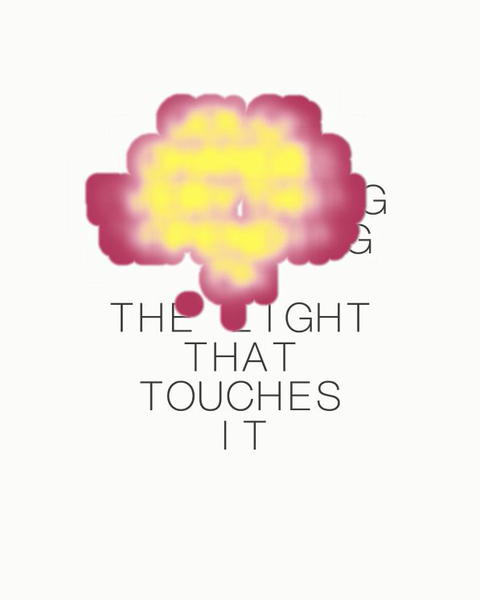
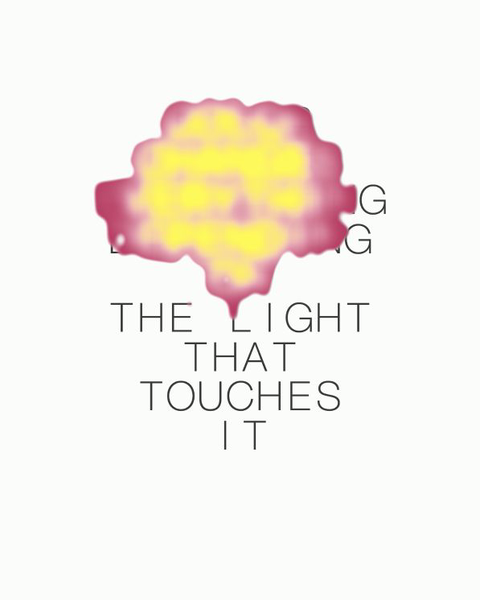
fix: shape light as surface-tension field

Changed region(s): [[0.2812, 0.15, 0.7812, 0.57], [0.1562, 0.24, 0.4062, 0.45], [0.4688, 0.33, 0.5312, 0.36]]

diff --git a/pages/color-changes/script.ts b/pages/color-changes/script.ts
@@ -7,7 +7,8 @@ const TEXTURE_SCALE = 3;
 const FIELD_WIDTH = ART_WIDTH;
 const FIELD_HEIGHT = ART_HEIGHT;
 const COLOR_BLUR_TAPS = 20;
-// Coverage stops inside the local 16 px search radius, so a 16→1 flood is sufficient.
+const SURFACE_BLUR_TAPS = 13;
+// The weighted stroke body stays inside the local search radius before surface smoothing.
 const JFA_JUMPS = [16, 8, 4, 2, 1, 1];
 const searchParams = new URLSearchParams(window.location.search);
 const QA_MODE = searchParams.has('qa');
@@ -27,7 +28,11 @@ const state = {
   radiusYBelow: 180,
   lightFalloff: 0.12,
   seedThreshold: 0.085,
-  bodyRadius: 13.4,
+  bodyRadius: 13.6,
+  bodyRadiusMin: 6.4,
+  surfaceBlurSigma: 5.2,
+  surfaceThreshold: 0.44,
+  surfaceSoftness: 0.085,
   colorBlurSigma: 9.0,
   colorBlurStep: 1.0,
   colorFloor: 0.035,
@@ -160,6 +165,9 @@ const colorHorizontalTarget = new THREE.WebGLRenderTarget(FIELD_WIDTH, FIELD_HEI
 const colorFieldTarget = new THREE.WebGLRenderTarget(FIELD_WIDTH, FIELD_HEIGHT, linearTargetOptions);
 const nearestTargetA = new THREE.WebGLRenderTarget(FIELD_WIDTH, FIELD_HEIGHT, nearestTargetOptions);
 const nearestTargetB = new THREE.WebGLRenderTarget(FIELD_WIDTH, FIELD_HEIGHT, nearestTargetOptions);
+const surfaceSourceTarget = new THREE.WebGLRenderTarget(FIELD_WIDTH, FIELD_HEIGHT, linearTargetOptions);
+const surfaceHorizontalTarget = new THREE.WebGLRenderTarget(FIELD_WIDTH, FIELD_HEIGHT, linearTargetOptions);
+const surfaceFieldTarget = new THREE.WebGLRenderTarget(FIELD_WIDTH, FIELD_HEIGHT, linearTargetOptions);
 
 const sourceMaterial = new THREE.ShaderMaterial({
   vertexShader,
@@ -336,6 +344,79 @@ const jumpFloodMaterial = new THREE.ShaderMaterial({
   depthWrite: false,
 });
 
+const surfaceSourceMaterial = new THREE.ShaderMaterial({
+  vertexShader,
+  fragmentShader: `
+    precision highp float;
+
+    varying vec2 vUv;
+    uniform sampler2D uNearest;
+    uniform vec2 uArtSize;
+    uniform float uBodyRadius;
+    uniform float uBodyRadiusMin;
+    uniform float uSeedThreshold;
+
+    void main() {
+      vec4 nearest = texture2D(uNearest, vUv);
+      if (nearest.a < 0.5) {
+        gl_FragColor = vec4(0.0);
+        return;
+      }
+
+      float strength = smoothstep(uSeedThreshold, 0.72, nearest.z);
+      float localRadius = mix(uBodyRadiusMin, uBodyRadius, pow(strength, 0.72));
+      float distanceToStroke = length((vUv - nearest.xy) * uArtSize);
+      float strokeBody = 1.0 - smoothstep(localRadius - 0.8, localRadius + 0.8, distanceToStroke);
+      strokeBody *= mix(0.62, 1.0, strength);
+      gl_FragColor = vec4(strokeBody, 0.0, 0.0, 1.0);
+    }
+  `,
+  uniforms: {
+    uNearest: { value: nearestTargetA.texture },
+    uArtSize: { value: new THREE.Vector2(ART_WIDTH, ART_HEIGHT) },
+    uBodyRadius: { value: state.bodyRadius },
+    uBodyRadiusMin: { value: state.bodyRadiusMin },
+    uSeedThreshold: { value: state.seedThreshold },
+  },
+  depthTest: false,
+  depthWrite: false,
+});
+
+const surfaceBlurMaterial = new THREE.ShaderMaterial({
+  vertexShader,
+  fragmentShader: `
+    precision highp float;
+
+    varying vec2 vUv;
+    uniform sampler2D uInput;
+    uniform vec2 uDirection;
+    uniform float uSigma;
+
+    void main() {
+      float sigmaSquared = max(uSigma * uSigma, 0.001);
+      float totalWeight = 0.0;
+      float surfaceField = 0.0;
+
+      for (int index = -${SURFACE_BLUR_TAPS}; index <= ${SURFACE_BLUR_TAPS}; index++) {
+        float sampleDistance = float(index);
+        float weight = exp(-0.5 * sampleDistance * sampleDistance / sigmaSquared);
+        surfaceField += texture2D(uInput, vUv + uDirection * sampleDistance).r * weight;
+        totalWeight += weight;
+      }
+
+      surfaceField /= max(totalWeight, 0.001);
+      gl_FragColor = vec4(surfaceField, 0.0, 0.0, 1.0);
+    }
+  `,
+  uniforms: {
+    uInput: { value: surfaceSourceTarget.texture },
+    uDirection: { value: new THREE.Vector2(1 / ART_WIDTH, 0) },
+    uSigma: { value: state.surfaceBlurSigma },
+  },
+  depthTest: false,
+  depthWrite: false,
+});
+
 const finalMaterial = new THREE.ShaderMaterial({
   vertexShader,
   fragmentShader: `
@@ -345,11 +426,13 @@ const finalMaterial = new THREE.ShaderMaterial({
     uniform sampler2D uText;
     uniform sampler2D uNearest;
     uniform sampler2D uColorField;
+    uniform sampler2D uSurfaceField;
     uniform vec2 uResolution;
     uniform vec2 uPosterOffset;
     uniform vec2 uPosterSize;
     uniform vec2 uArtSize;
-    uniform float uBodyRadius;
+    uniform float uSurfaceThreshold;
+    uniform float uSurfaceSoftness;
     uniform float uColorFloor;
     uniform float uColorRange;
     uniform float uHueBands;
@@ -378,22 +461,22 @@ const finalMaterial = new THREE.ShaderMaterial({
 
       float textMask = texture2D(uText, artUv).a;
       vec4 nearest = texture2D(uNearest, artUv);
-      float coverage = 0.0;
+      float surfaceField = texture2D(uSurfaceField, artUv).r;
+      float surfaceEdge = max(uSurfaceSoftness, fwidth(surfaceField) * 1.2);
+      float coverage = smoothstep(
+        uSurfaceThreshold - surfaceEdge,
+        uSurfaceThreshold + surfaceEdge,
+        surfaceField
+      );
       float colorEnergy = 0.0;
       float strokeDensity = 0.0;
-      float distanceToStroke = uBodyRadius + 2.0;
+      float distanceToStroke = 16.0;
 
       if (nearest.a > 0.5) {
         distanceToStroke = length((artUv - nearest.xy) * uArtSize);
         vec2 blurredField = texture2D(uColorField, artUv).rg;
         colorEnergy = blurredField.r / max(blurredField.g, 0.004);
         strokeDensity = blurredField.g;
-        float antialiasWidth = max(2.35, fwidth(distanceToStroke) * 1.38);
-        coverage = 1.0 - smoothstep(
-          uBodyRadius - antialiasWidth,
-          uBodyRadius + antialiasWidth,
-          distanceToStroke
-        );
       }
 
       float visibleText = textMask * 0.92 * (1.0 - coverage);
@@ -430,11 +513,13 @@ const finalMaterial = new THREE.ShaderMaterial({
     uText: { value: textTexture },
     uNearest: { value: nearestTargetA.texture },
     uColorField: { value: colorFieldTarget.texture },
+    uSurfaceField: { value: surfaceFieldTarget.texture },
     uResolution: { value: new THREE.Vector2(ART_WIDTH, ART_HEIGHT) },
     uPosterOffset: { value: new THREE.Vector2(0, 0) },
     uPosterSize: { value: new THREE.Vector2(ART_WIDTH, ART_HEIGHT) },
     uArtSize: { value: new THREE.Vector2(ART_WIDTH, ART_HEIGHT) },
-    uBodyRadius: { value: state.bodyRadius },
+    uSurfaceThreshold: { value: state.surfaceThreshold },
+    uSurfaceSoftness: { value: state.surfaceSoftness },
     uColorFloor: { value: state.colorFloor },
     uColorRange: { value: state.colorRange },
     uHueBands: { value: state.hueBands },
@@ -540,9 +625,22 @@ function bindGui(): void {
   });
   gui.add(state, 'seedThreshold', 0.01, 0.30, 0.005).onChange((value: number) => {
     nearestSeedMaterial.uniforms.uSeedThreshold.value = value;
+    surfaceSourceMaterial.uniforms.uSeedThreshold.value = value;
   });
   gui.add(state, 'bodyRadius', 4, 24, 0.1).onChange((value: number) => {
-    finalMaterial.uniforms.uBodyRadius.value = value;
+    surfaceSourceMaterial.uniforms.uBodyRadius.value = value;
+  });
+  gui.add(state, 'bodyRadiusMin', 1, 14, 0.1).onChange((value: number) => {
+    surfaceSourceMaterial.uniforms.uBodyRadiusMin.value = value;
+  });
+  gui.add(state, 'surfaceBlurSigma', 0.5, 10, 0.1).onChange((value: number) => {
+    surfaceBlurMaterial.uniforms.uSigma.value = value;
+  });
+  gui.add(state, 'surfaceThreshold', 0.1, 0.8, 0.005).onChange((value: number) => {
+    finalMaterial.uniforms.uSurfaceThreshold.value = value;
+  });
+  gui.add(state, 'surfaceSoftness', 0.01, 0.25, 0.005).onChange((value: number) => {
+    finalMaterial.uniforms.uSurfaceSoftness.value = value;
   });
   gui.add(state, 'colorBlurSigma', 0.5, 12, 0.1).onChange((value: number) => {
     colorBlurMaterial.uniforms.uSigma.value = value;
@@ -622,10 +720,20 @@ function animate(now: number): void {
     [nearestRead, nearestWrite] = [nearestWrite, nearestRead];
   }
 
+  surfaceSourceMaterial.uniforms.uNearest.value = nearestRead.texture;
+  renderPass(surfaceSourceMaterial, surfaceSourceTarget);
+  surfaceBlurMaterial.uniforms.uInput.value = surfaceSourceTarget.texture;
+  surfaceBlurMaterial.uniforms.uDirection.value.set(1 / FIELD_WIDTH, 0);
+  renderPass(surfaceBlurMaterial, surfaceHorizontalTarget);
+  surfaceBlurMaterial.uniforms.uInput.value = surfaceHorizontalTarget.texture;
+  surfaceBlurMaterial.uniforms.uDirection.value.set(0, 1 / FIELD_HEIGHT);
+  renderPass(surfaceBlurMaterial, surfaceFieldTarget);
+
   const elapsed = reduceMotion || QA_MODE ? 0 : (now - startTime) / 1000;
   finalMaterial.uniforms.uTime.value = elapsed;
   finalMaterial.uniforms.uNearest.value = nearestRead.texture;
   finalMaterial.uniforms.uColorField.value = colorFieldTarget.texture;
+  finalMaterial.uniforms.uSurfaceField.value = surfaceFieldTarget.texture;
   renderPass(finalMaterial, null);
 
   requestAnimationFrame(animate);

diff --git a/design-qa.md b/design-qa.md
@@ -8,6 +8,10 @@
   `pages/color-changes/qa/implementation-distance-final.png`
 - Equal-size reference/implementation comparison:
   `pages/color-changes/qa/compare-distance-final.jpg`
+- Reference / previous constant-radius / final surface comparison:
+  `pages/color-changes/qa/surface-tension-final.jpg`
+- Focused user-reference surface crop:
+  `pages/color-changes/qa/surface-tension-crop-final.jpg`
 - Focused `Y`-junction evidence:
   `pages/color-changes/qa/y-stroke-distance-final.png`
 - User-reference legibility crop:
@@ -45,14 +49,23 @@ image therefore use the same crop, dimensions, and frozen palette state.
   accumulated neighboring stroke energy, enlarged intersections, exposed
   square density cells, and produced a cloudy center detached from the glyph.
 - Final implementation evidence: the focused `Y` crop has no isolated round
-  hotspot at the junction. Geometry still comes from distance to the nearest
-  active glyph seed, while the fine carrier adds only a directional bias inside
-  a broader low-frequency color field. The 2.35 px derivative-aware transition
-  shows no square texels, stepped contours, or one-pixel outline at native output
-  or in the DPR 2 capture.
+  hotspot at the junction. Geometry begins with distance to the nearest active
+  glyph seed, but retained activation now varies each seed's radius from 6.4 to
+  13.6 px. A short surface-field relaxation then joins nearby pools and rounds
+  the contour before coverage is extracted. The result has narrow necks, uneven
+  pools, and hanging droplets instead of a row of equal circular caps.
+- `surface-tension-final.jpg` shows reference / previous constant-radius pass /
+  final pass at equal size. The previous implementation has regularly repeated
+  semicircles along every line; the final pass removes that rhythm while keeping
+  the stroke-led topology and real interior openings.
+- `surface-tension-crop-final.jpg` confirms the user-reported detail at 3×:
+  the implementation now forms a continuous neck and gravity-like terminal
+  rather than a circle merely stamped over a character.
 - The 1440 × 1800 text mask remains high resolution. The 480 × 600 half-float
   geometry field matches the native source resolution. A local 16 px jump flood
-  covers the 13.4 px body radius and receives a second one-pixel cleanup pass.
+  covers the 13.6 px maximum pre-relaxation body radius and receives a second
+  one-pixel cleanup pass. The 5.2 px surface blur uses 13 taps per side, then a
+  soft 0.44 isosurface removes residual one-pixel steps.
 
 ### Color and gradients
 
@@ -86,6 +99,9 @@ image therefore use the same crop, dimensions, and frozen palette state.
 - Pointer tracking is eased and capped at 300 reference px/s. Glyph activation
   attacks over 55 ms, releases over 340 ms, and disappears geometrically below
   the 0.085 seed threshold.
+- During release, the same retained activation also contracts local pool radii,
+  so trails neck down before the seed cutoff instead of retaining identical
+  circles until they disappear.
 - Deterministic QA coordinates are opt-in. A missing `qaX`/`qaY` pair no longer
   resolves to `(0, 0)` and disable live pointer interaction.
 
@@ -145,6 +161,19 @@ image therefore use the same crop, dimensions, and frozen palette state.
      now changes continuously from background to rose and then pale pink; there
      is no fixed-color contour. In `y-legibility-final.jpg`, the central color
      follows the junction region but does not reconstruct complete colored words.
+8. Surface-tension comparison.
+   - Finding after handoff — P1: constant 13.4 px dilation gave every active
+     glyph pixel the same influence. Although the boundary was smooth, repeated
+     semicircular caps made the effect read as large dots laid over the letters.
+   - Fix: retain nearest-stroke topology but weight dilation radius by temporal
+     activation, then blur only that constructed body and extract a soft
+     isosurface. This separates stroke following from surface relaxation.
+   - Three parameter passes compared 4.2–5.8 px relaxation kernels and 0.38–0.46
+     isovalues. The selected 5.2 / 0.44 pair best preserves holes and thin necks
+     while removing the per-character scallop rhythm.
+   - Verification: the three-way and focused comparisons show unequal pool sizes,
+     continuous necks, and tapered terminals. OCR on the final `Y` capture reads
+     only unaffected copy below the colored area, not covered words.
 
 ## Findings
 

diff --git a/pages/color-changes/spec.md b/pages/color-changes/spec.md
@@ -17,27 +17,34 @@
 4. Threshold the retained glyph pixels into seeds and run jump flooding down to
    one-pixel steps. Every artwork pixel now stores its nearest active glyph
    coordinate.
-5. Build the visible silhouette from the exact distance to that nearest glyph.
-   The body expands each stroke by a nearly constant width, including through
-   `Y` junctions, instead of accumulating a Gaussian hotspot where multiple
-   strokes meet. Coverage ends with a derivative-aware 2.35 px transition; there
-   is no separate outline or rim pass.
-6. Build color in a separate field. A nine-pixel Gaussian filter blurs both
+5. Build a stroke body from the exact distance to that nearest glyph, but let
+   retained activation control its local radius. Weak trail seeds start at
+   6.4 px and strongly lit seeds reach 13.6 px, so terminals taper and pool sizes
+   vary instead of every glyph producing the same circular cap.
+6. Render that weighted body into a separate surface field, blur it by 5.2 px,
+   and extract the 0.44 isosurface with a soft threshold. This short curvature
+   pass joins close pools, rounds narrow necks, and suppresses repeated per-letter
+   scallops. It operates on the already constructed stroke body—not raw glyph
+   density—so `Y` junctions do not become Gaussian center hotspots. There is no
+   separate outline or rim pass.
+7. Build color in a separate field. A nine-pixel Gaussian filter blurs both
    `activation × glyph` and `glyph`; dividing the two produces a normalized
    energy value that stays smooth without making intersections brighter merely
    because more stroke pixels overlap the kernel.
-7. Drive the color core from that low-frequency density field, retaining only a
+8. Drive the color core from that low-frequency density field, retaining only a
    4% fine nearest-stroke carrier. Map energy through overlapping rose, pale-pink,
    and hot-color RGB blends instead of a single HSV ramp. The boundary color is
    therefore the low-energy end of the same continuous field, not a fixed stroke.
-8. Fully occlude the charcoal underprint inside the colored coverage, add only
+9. Fully occlude the charcoal underprint inside the colored coverage, add only
    sub-pixel dithering inside that coverage, and animate all three palette anchors
    over time.
 
 Geometry and color are deliberately independent. Geometry is a nearest-stroke
-distance field; Gaussian filtering is used only to smooth the color carried by
-those strokes. This is the key difference from the former thresholded-blur
-implementation, which produced a round central blob at `Y` intersections.
+distance field followed by a short surface-relaxation pass; color uses a broader
+normalized energy field. This is the key difference from the former
+thresholded-glyph-blur implementation, which produced a round central blob at
+`Y` intersections, and from the constant-radius distance pass, which produced a
+row of equally sized circular caps.
 
 ## Interaction
 
@@ -64,8 +71,9 @@ implementation, which produced a round central blob at `Y` intersections.
 - Geometry/color field resolution: 480 × 600, half-float RGBA render targets
 - Nearest-stroke solver: local jump flooding from 16 px to 1 px plus one cleanup
   pass (the complete sequence propagates farther than the visible body)
-- Stroke expansion radius: 13.4 px
-- Silhouette antialiasing: minimum 2.35 px with derivative scaling
+- Activation-weighted stroke radius: 6.4–13.6 px, strength exponent 0.72
+- Surface-tension blur: sigma 5.2 px, 13 taps per side
+- Surface isovalue / edge softness: 0.44 / 0.085
 - Normalized color/glyph-density blur sigma: 9 px, 20 taps per side
 - Fine nearest-stroke color carrier: 4%
 - Pointer maximum speed: 300 reference px/s
